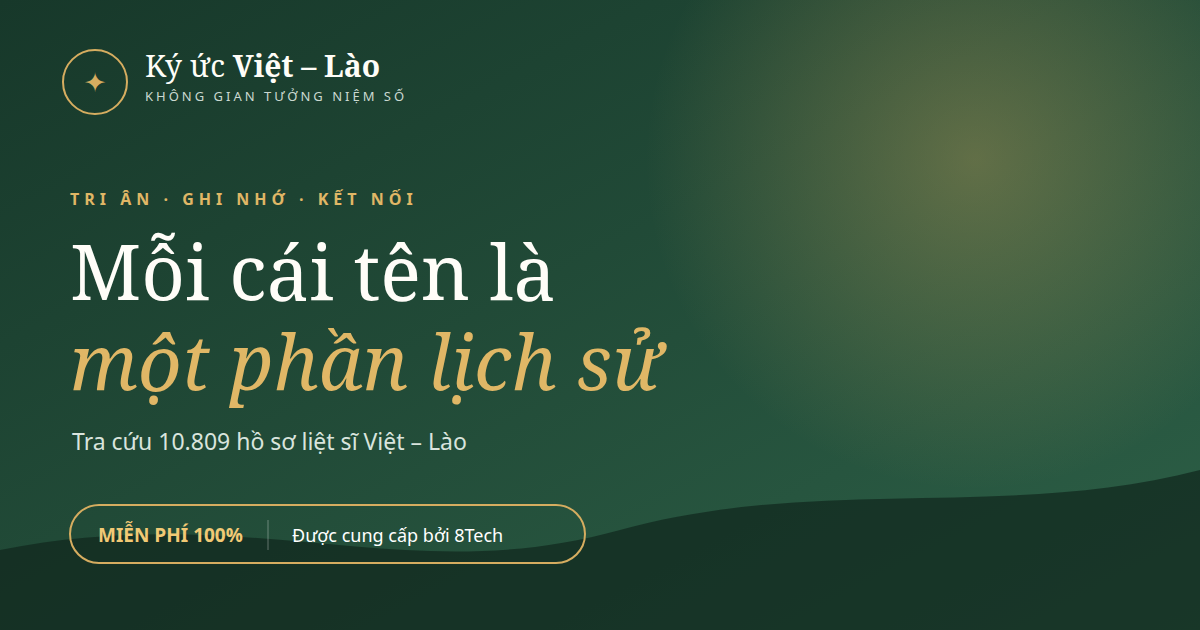
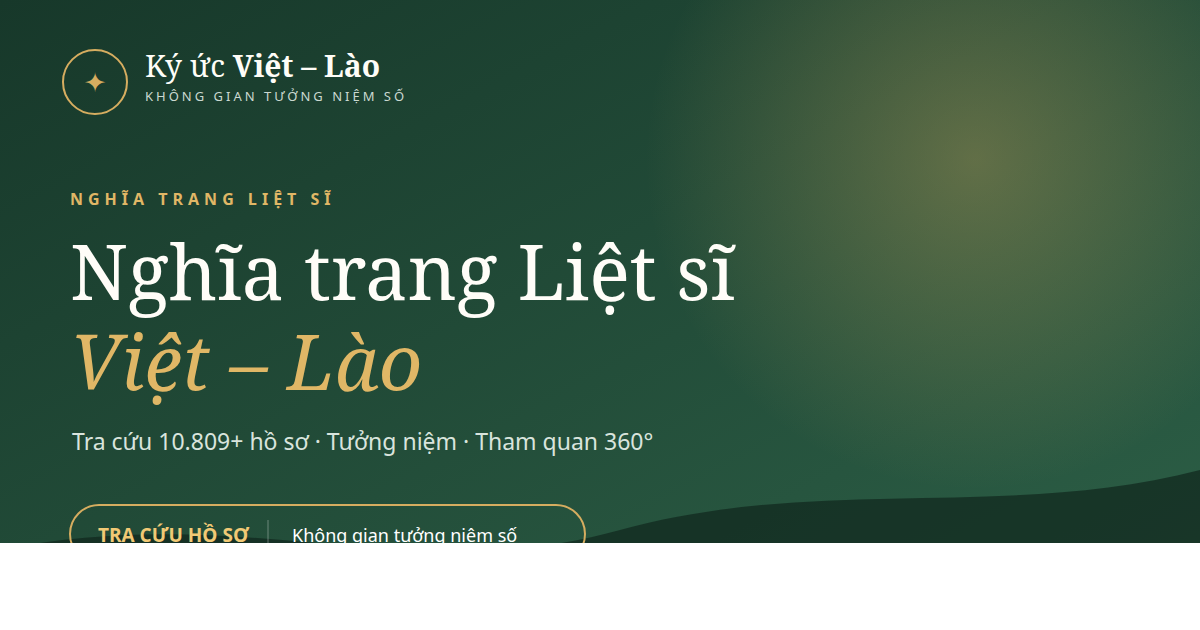
seo: refresh social metadata and sharing image

diff --git a/templates/memorial/detail.html b/templates/memorial/detail.html
@@ -1,4 +1,4 @@
-{% extends 'memorial/base.html' %}{% load static %}{% block title %}Liệt sĩ {{ martyr.name|default:'Chưa biết tên' }} · Tra cứu phần mộ Việt – Lào{% endblock %}{% block description %}Tra cứu thông tin liệt sĩ {{ martyr.name|default:'Chưa biết tên' }}{% if martyr.hometown %}, quê quán {{ martyr.hometown }}{% endif %}{% if martyr.zone %}, an táng tại phân khu {{ martyr.zone }}{% endif %}. Dữ liệu có dẫn nguồn, dịch vụ miễn phí bởi 8Tech.{% endblock %}{% block canonical %}https://lietsivietlao.8tech.vn/liet-si/{{ martyr.source_id }}/{% endblock %}{% block og_type %}profile{% endblock %}{% block og_title %}Tưởng nhớ liệt sĩ {{ martyr.name|default:'Chưa biết tên' }} · Ký ức Việt – Lào{% endblock %}{% block og_description %}Thông tin phần mộ{% if martyr.zone %} tại phân khu {{ martyr.zone }}{% endif %}{% if martyr.hometown %}, quê quán {{ martyr.hometown }}{% endif %}. Tra cứu miễn phí trên Ký ức Việt – Lào.{% endblock %}{% block twitter_title %}Tưởng nhớ liệt sĩ {{ martyr.name|default:'Chưa biết tên' }} · Ký ức Việt – Lào{% endblock %}{% block extra_css %}<link rel="stylesheet" href="{% static 'detail-dark.css' %}?v=23"><link rel="stylesheet" href="{% static 'family-connect.css' %}?v=2">{% endblock %}{% block structured_data %}<script type="application/ld+json">{"@context":"https://schema.org","@type":"Person","name":"{{ martyr.name|default:'Chưa biết tên'|escapejs }}","birthDate":"{{ martyr.birth_text|escapejs }}","deathDate":"{{ martyr.death_text|escapejs }}","homeLocation":"{{ martyr.hometown|escapejs }}","url":"https://lietsivietlao.8tech.vn/liet-si/{{ martyr.source_id }}/","mainEntityOfPage":"https://lietsivietlao.8tech.vn/liet-si/{{ martyr.source_id }}/"}</script>{% endblock %}{% block content %}
+{% extends 'memorial/base.html' %}{% load static %}{% block title %}Liệt sĩ {{ martyr.name|default:'Chưa biết tên' }} · Tra cứu phần mộ Việt – Lào{% endblock %}{% block description %}Thông tin liệt sĩ {{ martyr.name|default:'Chưa biết tên' }}{% if martyr.hometown %}, quê quán {{ martyr.hometown }}{% endif %}{% if martyr.zone %}, phần mộ tại phân khu {{ martyr.zone }}{% endif %}, Nghĩa trang Liệt sĩ Việt – Lào.{% endblock %}{% block canonical %}https://lietsivietlao.8tech.vn/liet-si/{{ martyr.source_id }}/{% endblock %}{% block og_type %}profile{% endblock %}{% block og_title %}Tưởng nhớ liệt sĩ {{ martyr.name|default:'Chưa biết tên' }} · Ký ức Việt – Lào{% endblock %}{% block og_description %}Thông tin phần mộ{% if martyr.zone %} tại phân khu {{ martyr.zone }}{% endif %}{% if martyr.hometown %}, quê quán {{ martyr.hometown }}{% endif %}. Tra cứu miễn phí trên Ký ức Việt – Lào.{% endblock %}{% block twitter_title %}Tưởng nhớ liệt sĩ {{ martyr.name|default:'Chưa biết tên' }} · Ký ức Việt – Lào{% endblock %}{% block extra_css %}<link rel="stylesheet" href="{% static 'detail-dark.css' %}?v=23"><link rel="stylesheet" href="{% static 'family-connect.css' %}?v=2">{% endblock %}{% block structured_data %}<script type="application/ld+json">{"@context":"https://schema.org","@type":"Person","name":"{{ martyr.name|default:'Chưa biết tên'|escapejs }}","birthDate":"{{ martyr.birth_text|escapejs }}","deathDate":"{{ martyr.death_text|escapejs }}","homeLocation":"{{ martyr.hometown|escapejs }}","url":"https://lietsivietlao.8tech.vn/liet-si/{{ martyr.source_id }}/","mainEntityOfPage":"https://lietsivietlao.8tech.vn/liet-si/{{ martyr.source_id }}/"}</script>{% endblock %}{% block content %}
 <section class="detail"><div class="detail-breadcrumb"><a class="back" href="{% url 'martyr_list' %}">← Danh sách liệt sĩ</a><span>/</span><span>Hồ sơ tưởng niệm</span></div><div class="memorial-profile"><div class="memorial-card"><div class="memorial-card__glow" aria-hidden="true"></div><div class="portrait detail-flag" aria-label="Cờ Việt Nam"><svg viewBox="0 0 72 48" role="img" aria-hidden="true"><rect width="72" height="48" rx="4" fill="#da251d"/><path fill="#ffdf00" d="M36 8.5l3.59 11.05h11.62l-9.4 6.83 3.59 11.05-9.4-6.83-9.4 6.83 3.59-11.05-9.4-6.83h11.62z"/></svg></div><div class="memorial-card__copy"><span class="eyebrow">TƯỞNG NHỚ LIỆT SĨ</span><span class="memorial-honor">TỔ QUỐC GHI CÔNG</span><h1>{{ martyr.name|default:'Chưa biết tên' }}</h1><div class="memorial-lifetime"><span><small>Quê quán</small><strong{% if not martyr.hometown %} class="is-missing"{% endif %}>{{ martyr.hometown|default:'Đang cập nhật' }}</strong></span><span><small>Ngày / năm sinh</small><strong{% if not martyr.birth_text %} class="is-missing"{% endif %}>{{ martyr.birth_text|default:'Đang cập nhật' }}</strong></span><span><small>Ngày hy sinh</small><strong{% if not martyr.death_text %} class="is-missing"{% endif %}>{{ martyr.death_text|default:'Đang cập nhật' }}</strong></span></div><p class="memorial-grave-meta"><span>Phân khu <b>{{ martyr.zone|default:'—' }}</b></span><i aria-hidden="true">·</i><span>Hàng <b>{{ martyr.grave_row|default:'—' }}</b></span><i aria-hidden="true">·</i><span>Số mộ <b>{{ martyr.grave_number|default:'—' }}</b></span></p><p class="memorial-card__verse">“Sống anh dũng · Hy sinh vẻ vang · Tên người còn mãi”</p><div class="memorial-actions"><a class="memorial-action memorial-action--candle" href="#loi-tri-an"><span aria-hidden="true">✦</span><strong>Thắp nến tri ân</strong></a><a class="memorial-action memorial-action--family" href="#ket-noi-than-nhan"><span aria-hidden="true">⌂</span><strong>Kết nối thân nhân</strong></a></div></div></div></div>
 {% if messages %}<div class="detail-notices">{% for message in messages %}<div class="tribute-notice tribute-notice--success">{{ message }}</div>{% endfor %}</div>{% endif %}
 <section class="family-connect" id="ket-noi-than-nhan">

diff --git a/templates/memorial/base.html b/templates/memorial/base.html
@@ -6,21 +6,22 @@
   <meta name="author" content="8Tech"><meta name="theme-color" content="#244e3a">
   <link rel="icon" type="image/svg+xml" href="{% static 'brand/ky-uc-viet-lao-mark.svg' %}">
   <link rel="canonical" href="{% block canonical %}https://lietsivietlao.8tech.vn{{ request.path }}{% endblock %}">
-  <title>{% block title %}Ký ức Việt – Lào{% endblock %}</title>
+  <title>{% block title %}Nghĩa trang Liệt sĩ Việt – Lào | Tra cứu phần mộ{% endblock %}</title>
   <meta property="og:locale" content="vi_VN"><meta property="og:site_name" content="Ký ức Việt – Lào">
   <meta property="og:type" content="{% block og_type %}website{% endblock %}">
   <meta property="og:title" content="{% block og_title %}Nghĩa trang Liệt sĩ Việt – Lào · Ký ức Việt – Lào{% endblock %}">
   <meta property="og:description" content="{% block og_description %}Tra cứu hồ sơ liệt sĩ, vị trí phần mộ và khám phá không gian tưởng niệm Việt – Lào tại Anh Sơn, Nghệ An.{% endblock %}">
   <meta property="og:url" content="https://lietsivietlao.8tech.vn{{ request.path }}">
-  <meta property="og:image" content="https://lietsivietlao.8tech.vn{% static 'social/ky-uc-viet-lao-1200x630.png' %}">
-  <meta property="og:image:secure_url" content="https://lietsivietlao.8tech.vn{% static 'social/ky-uc-viet-lao-1200x630.png' %}">
+  <meta property="og:image" content="https://lietsivietlao.8tech.vn{% static 'social/ky-uc-viet-lao-1200x630.png' %}?v=2">
+  <meta property="og:image:secure_url" content="https://lietsivietlao.8tech.vn{% static 'social/ky-uc-viet-lao-1200x630.png' %}?v=2">
   <meta property="og:image:type" content="image/png"><meta property="og:image:width" content="1200"><meta property="og:image:height" content="630">
-  <meta property="og:image:alt" content="Ký ức Việt – Lào — Không gian tưởng niệm số miễn phí bởi 8Tech">
+  <meta property="og:image:alt" content="Nghĩa trang Liệt sĩ Việt – Lào tại Anh Sơn, Nghệ An">
   <meta name="twitter:card" content="summary_large_image">
   <meta name="twitter:title" content="{% block twitter_title %}Nghĩa trang Liệt sĩ Việt – Lào · Ký ức Việt – Lào{% endblock %}">
   <meta name="twitter:description" content="{% block twitter_description %}Tra cứu hồ sơ liệt sĩ, vị trí phần mộ và khám phá Nghĩa trang Liệt sĩ Việt – Lào tại Anh Sơn, Nghệ An.{% endblock %}">
-  <meta name="twitter:image" content="https://lietsivietlao.8tech.vn{% static 'social/ky-uc-viet-lao-1200x630.png' %}">
-  <script type="application/ld+json">{"@context":"https://schema.org","@type":"WebSite","name":"Ký ức Việt – Lào","url":"https://lietsivietlao.8tech.vn/","inLanguage":"vi-VN","description":"Không gian tưởng niệm số và tra cứu thông tin liệt sĩ Việt – Lào","isAccessibleForFree":true,"creator":{"@type":"Organization","name":"8Tech","url":"https://8tech.vn/"},"potentialAction":{"@type":"SearchAction","target":{"@type":"EntryPoint","urlTemplate":"https://lietsivietlao.8tech.vn/?q={search_term_string}"},"query-input":"required name=search_term_string"}}</script>
+  <meta name="twitter:image" content="https://lietsivietlao.8tech.vn{% static 'social/ky-uc-viet-lao-1200x630.png' %}?v=2">
+  <meta name="twitter:image:alt" content="Nghĩa trang Liệt sĩ Việt – Lào tại Anh Sơn, Nghệ An">
+  <script type="application/ld+json">{"@context":"https://schema.org","@type":"WebSite","name":"Ký ức Việt – Lào","url":"https://lietsivietlao.8tech.vn/","inLanguage":"vi-VN","description":"Không gian tưởng niệm số và tra cứu thông tin liệt sĩ Việt – Lào","isAccessibleForFree":true,"creator":{"@type":"Organization","name":"8Tech","url":"https://8tech.vn/"},"potentialAction":{"@type":"SearchAction","target":{"@type":"EntryPoint","urlTemplate":"https://lietsivietlao.8tech.vn/danh-sach-liet-si/?q={search_term_string}"},"query-input":"required name=search_term_string"}}</script>
   {% block structured_data %}{% endblock %}
   <link rel="stylesheet" href="{% static 'app.css' %}?v=3">
   <link rel="stylesheet" href="{% static 'seo.css' %}?v=1">

diff --git a/templates/memorial/martyr_list.html b/templates/memorial/martyr_list.html
@@ -4,6 +4,8 @@
 {% block robots %}{% if request.GET %}noindex,follow{% else %}index,follow,max-image-preview:large,max-snippet:-1{% endif %}{% endblock %}
 {% block og_title %}Danh sách liệt sĩ tại Nghĩa trang Việt – Lào{% endblock %}
 {% block og_description %}Tra cứu {{ total_display }} hồ sơ theo họ tên, quê quán và vị trí phần mộ tại Nghĩa trang Liệt sĩ Việt – Lào.{% endblock %}
+{% block twitter_title %}Danh sách {{ total_display }} liệt sĩ Việt – Lào{% endblock %}
+{% block twitter_description %}Tra cứu hồ sơ theo họ tên, quê quán, phân khu, hàng và số mộ tại Nghĩa trang Liệt sĩ Việt – Lào.{% endblock %}
 {% block structured_data %}<script type="application/ld+json">{"@context":"https://schema.org","@type":"CollectionPage","name":"Danh sách liệt sĩ tại Nghĩa trang Việt – Lào","url":"https://lietsivietlao.8tech.vn/danh-sach-liet-si/","numberOfItems":{{ total }},"isPartOf":{"@type":"WebSite","name":"Ký ức Việt – Lào","url":"https://lietsivietlao.8tech.vn/"}}</script>{% endblock %}
 {% block content %}
 <section class="list-hero"><div><span class="eyebrow">KÝ ỨC VIỆT – LÀO</span><h1>Danh sách liệt sĩ</h1><p>Tra cứu trong {{ total }} hồ sơ theo tên, quê quán hoặc vị trí phần mộ.</p></div></section>

diff --git a/templates/memorial/tour.html b/templates/memorial/tour.html
@@ -3,6 +3,8 @@
 {% block description %}Bản đồ tham quan tương tác Nghĩa trang Liệt sĩ Việt – Lào với các điểm khám phá, ảnh chi tiết và thuyết minh.{% endblock %}
 {% block og_title %}Tham quan 360° Nghĩa trang Liệt sĩ Việt – Lào{% endblock %}
 {% block og_description %}Khám phá bản đồ tương tác, các phân khu và điểm tưởng niệm tại Nghĩa trang Liệt sĩ Việt – Lào.{% endblock %}
+{% block twitter_title %}Tham quan 360° Nghĩa trang Liệt sĩ Việt – Lào{% endblock %}
+{% block twitter_description %}Khám phá toàn cảnh, bản đồ tương tác và các điểm tưởng niệm tại Nghĩa trang Liệt sĩ Việt – Lào.{% endblock %}
 {% block body_class %}page-tour-360{% endblock %}
 {% block extra_css %}<link rel="stylesheet" href="{% static 'vendor/pannellum/pannellum.css' %}"><link rel="stylesheet" href="{% static 'tour-360.css' %}?v=3">{% endblock %}
 {% block extra_js %}<script defer src="{% static 'vendor/pannellum/pannellum.js' %}"></script><script defer src="{% static 'tour-panorama.js' %}?v=3"></script><script defer src="{% static 'tour-experience.js' %}?v=2"></script><script defer src="{% static 'cemetery-map.js' %}?v=4"></script>{% endblock %}
